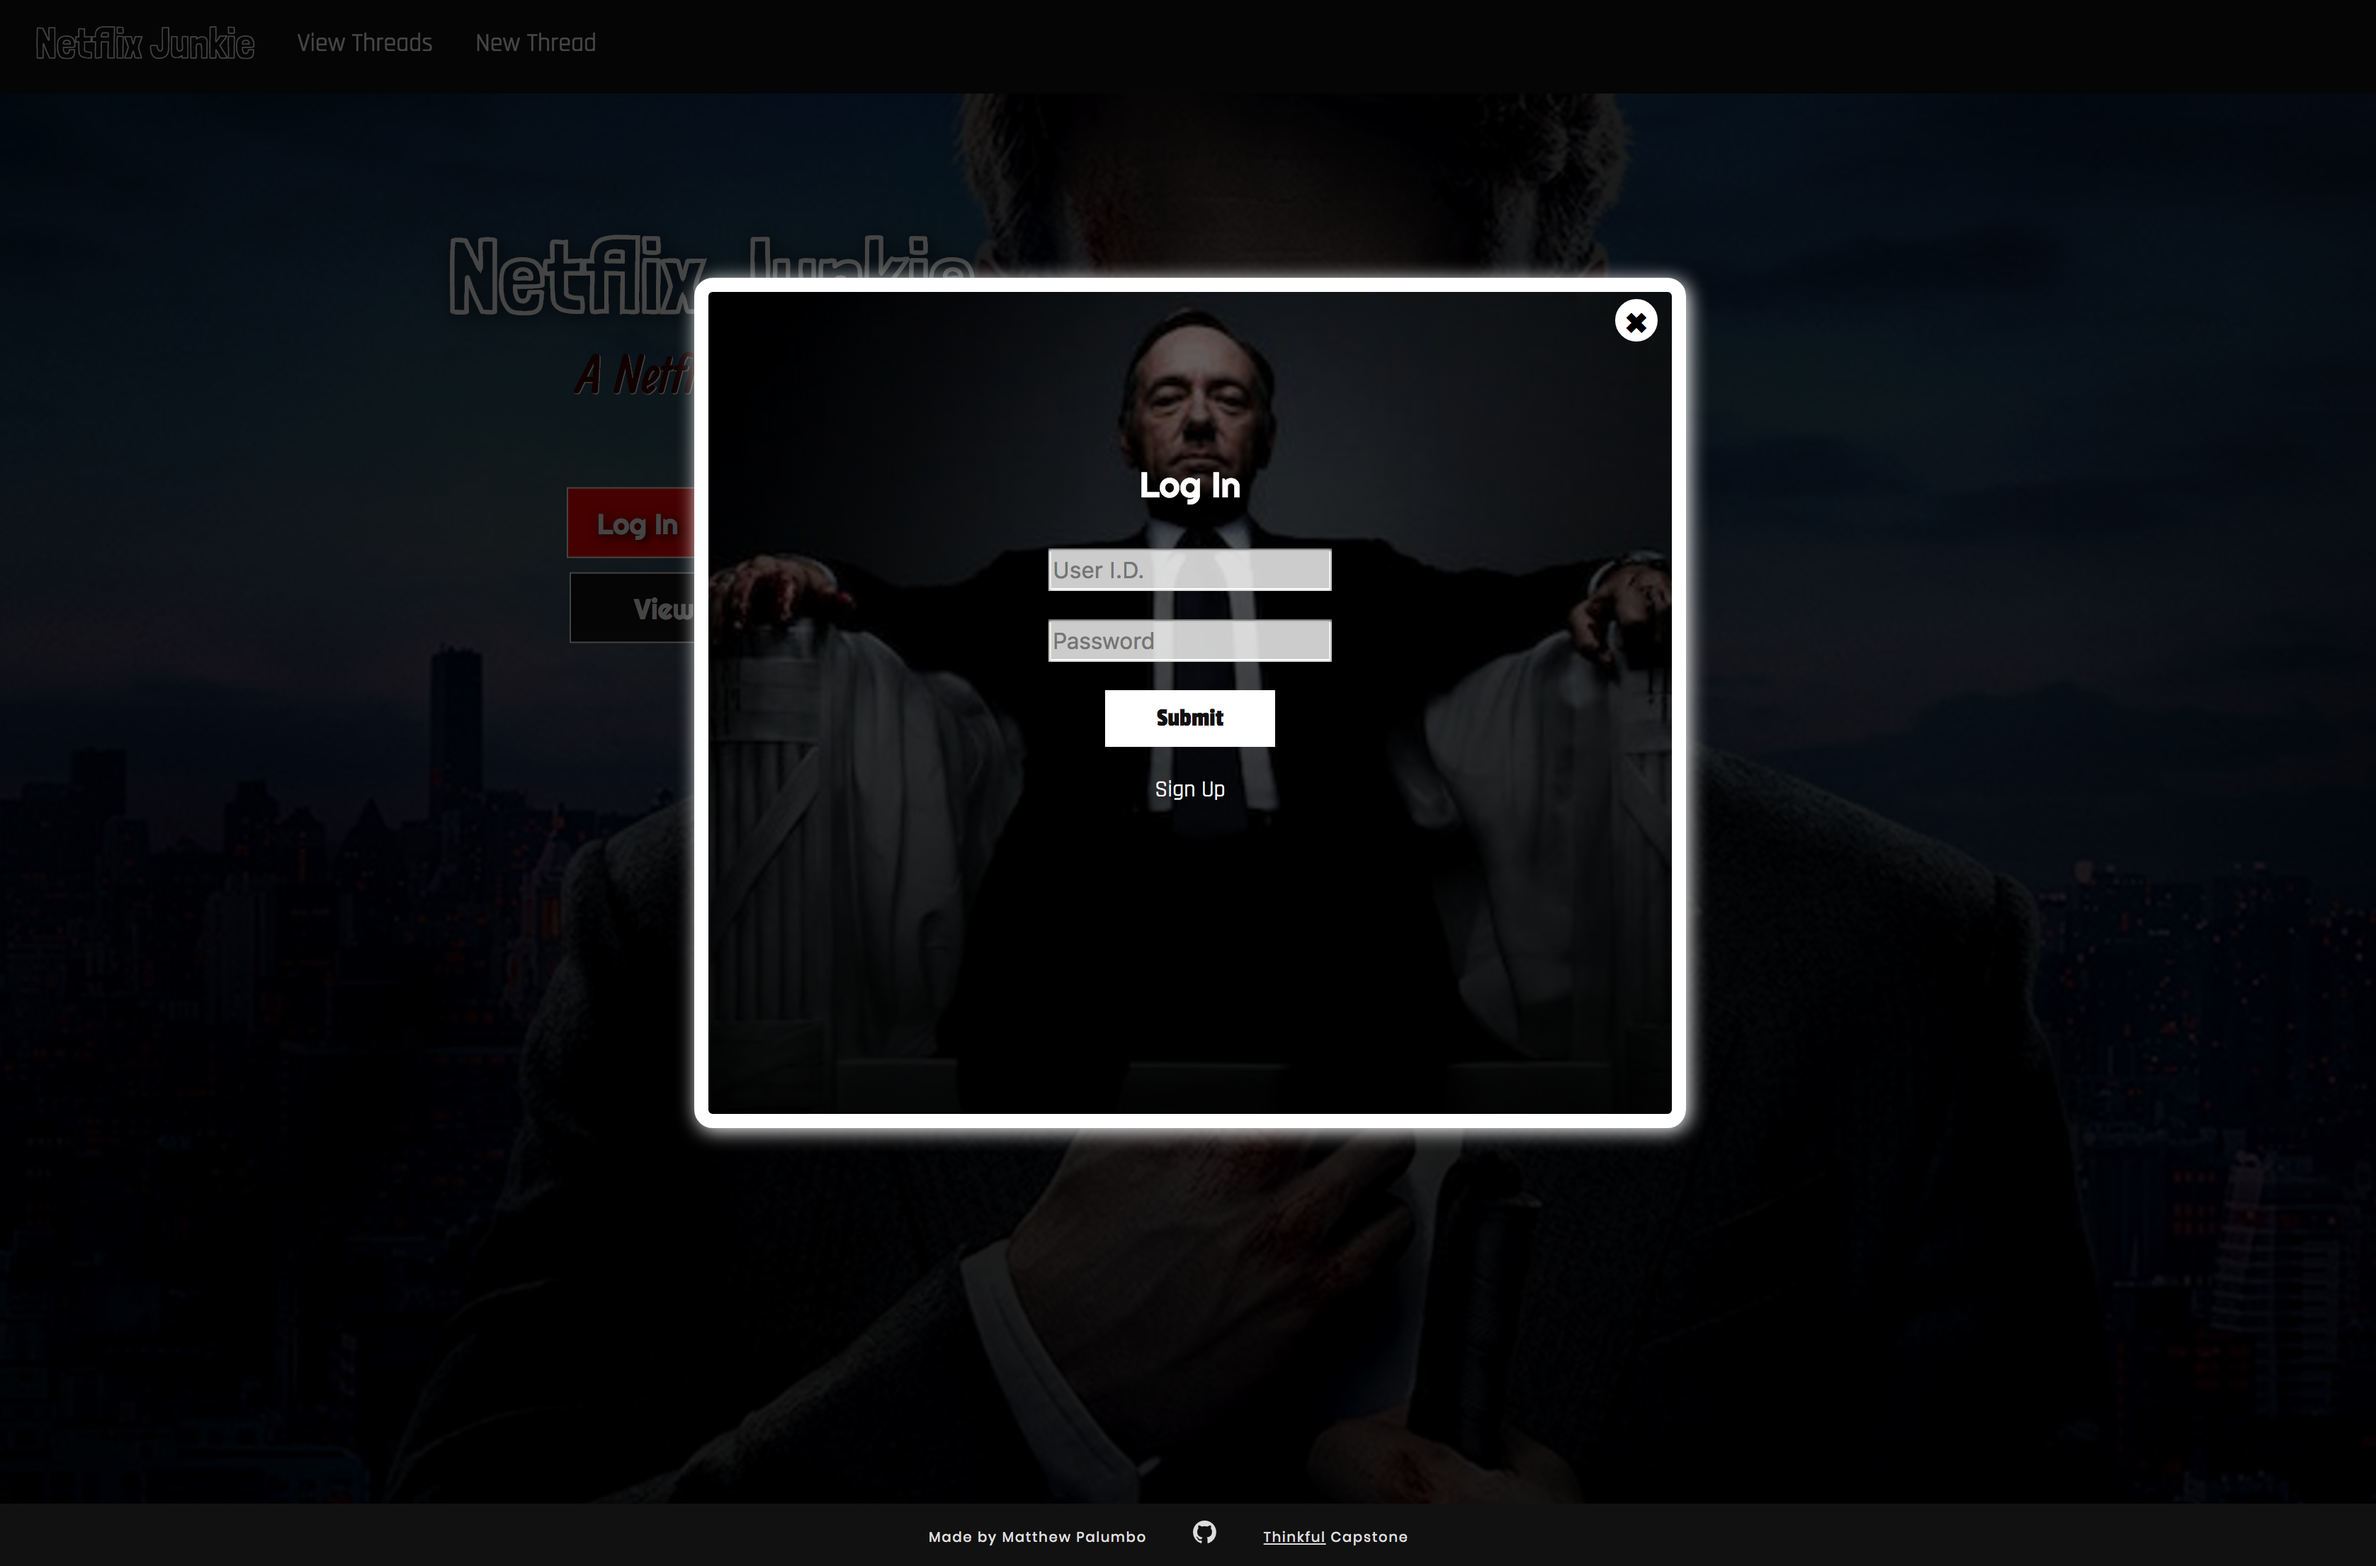
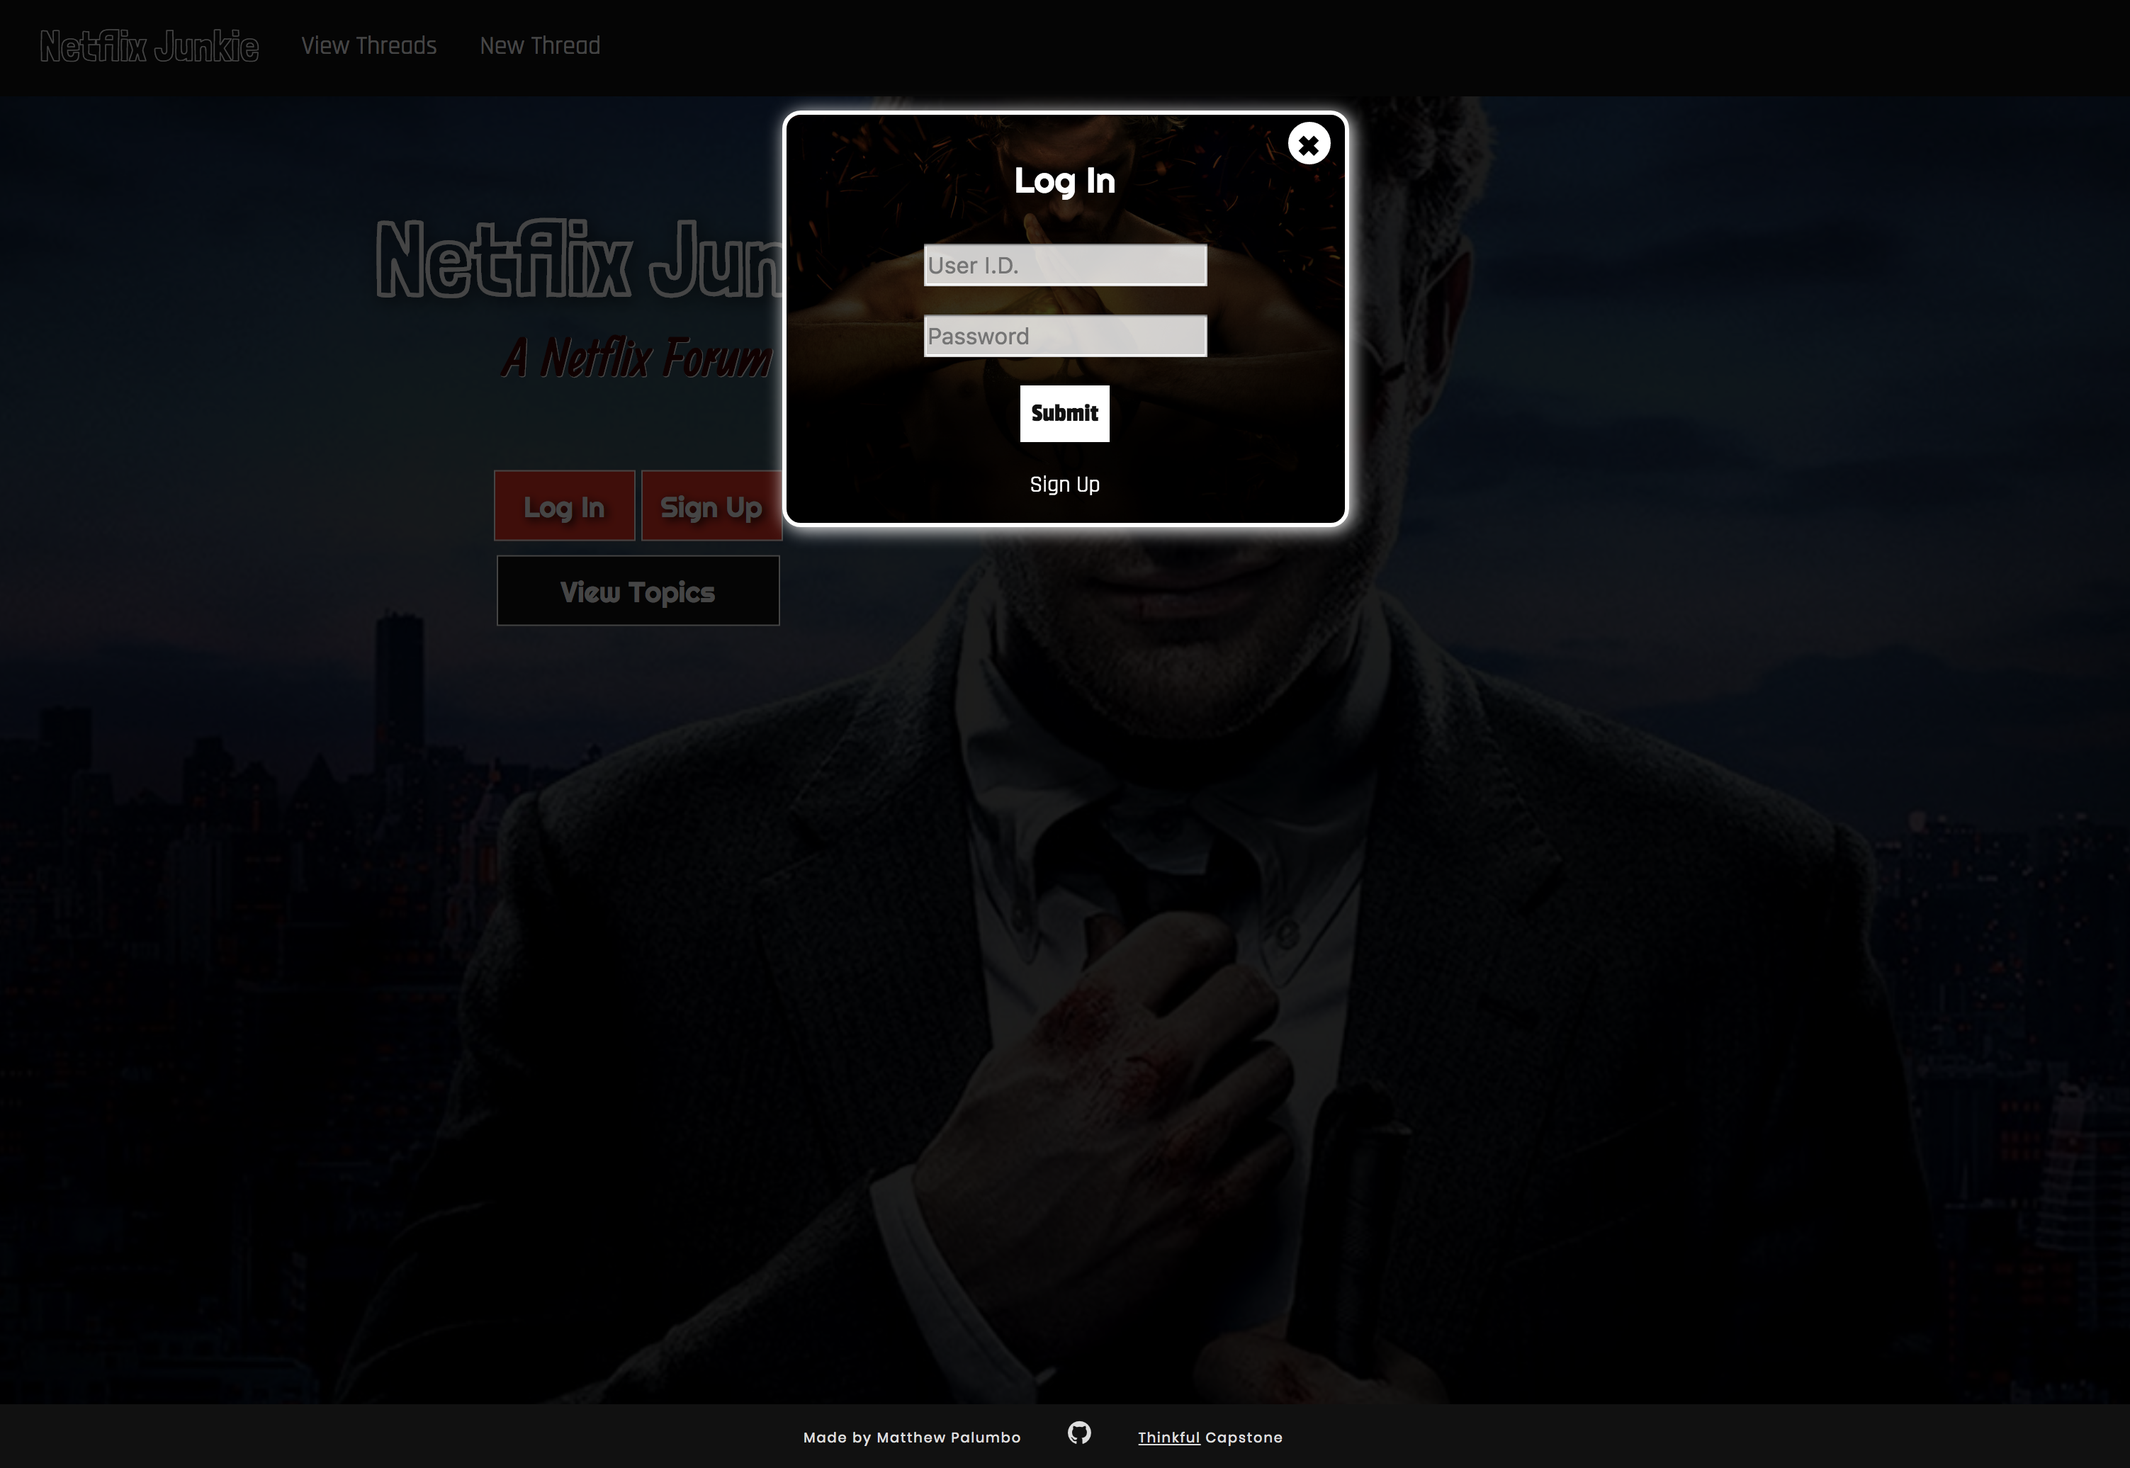
Got rid of Kevin Spacey, added readme points

diff --git a/readme.md b/readme.md
@@ -35,6 +35,11 @@ Netflix Junkie is a forum where a user can search for existing threads, create n
 * Javascript
 * jQuery
 * Node.js
+* Mocha / Chai
+* Chai-HTTP
+* MongoDB
+* Mongoose
+* Passport.js
 * mLab
 * Heroku
 
